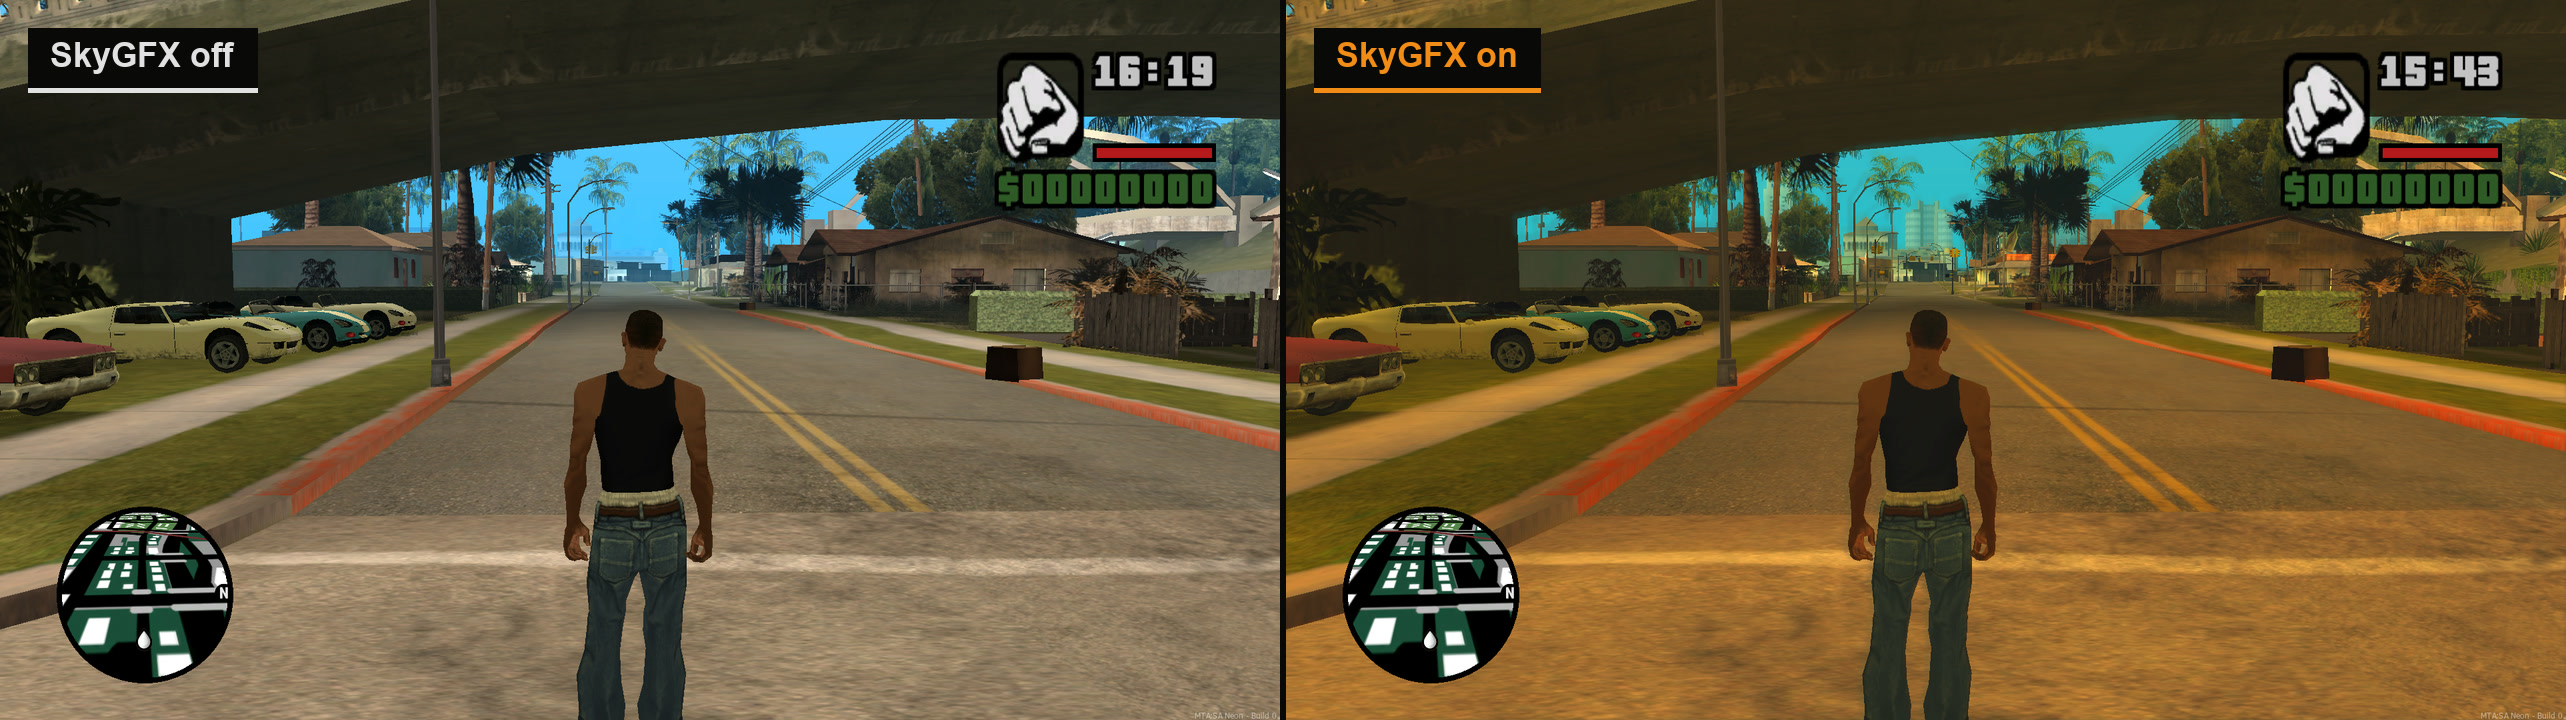
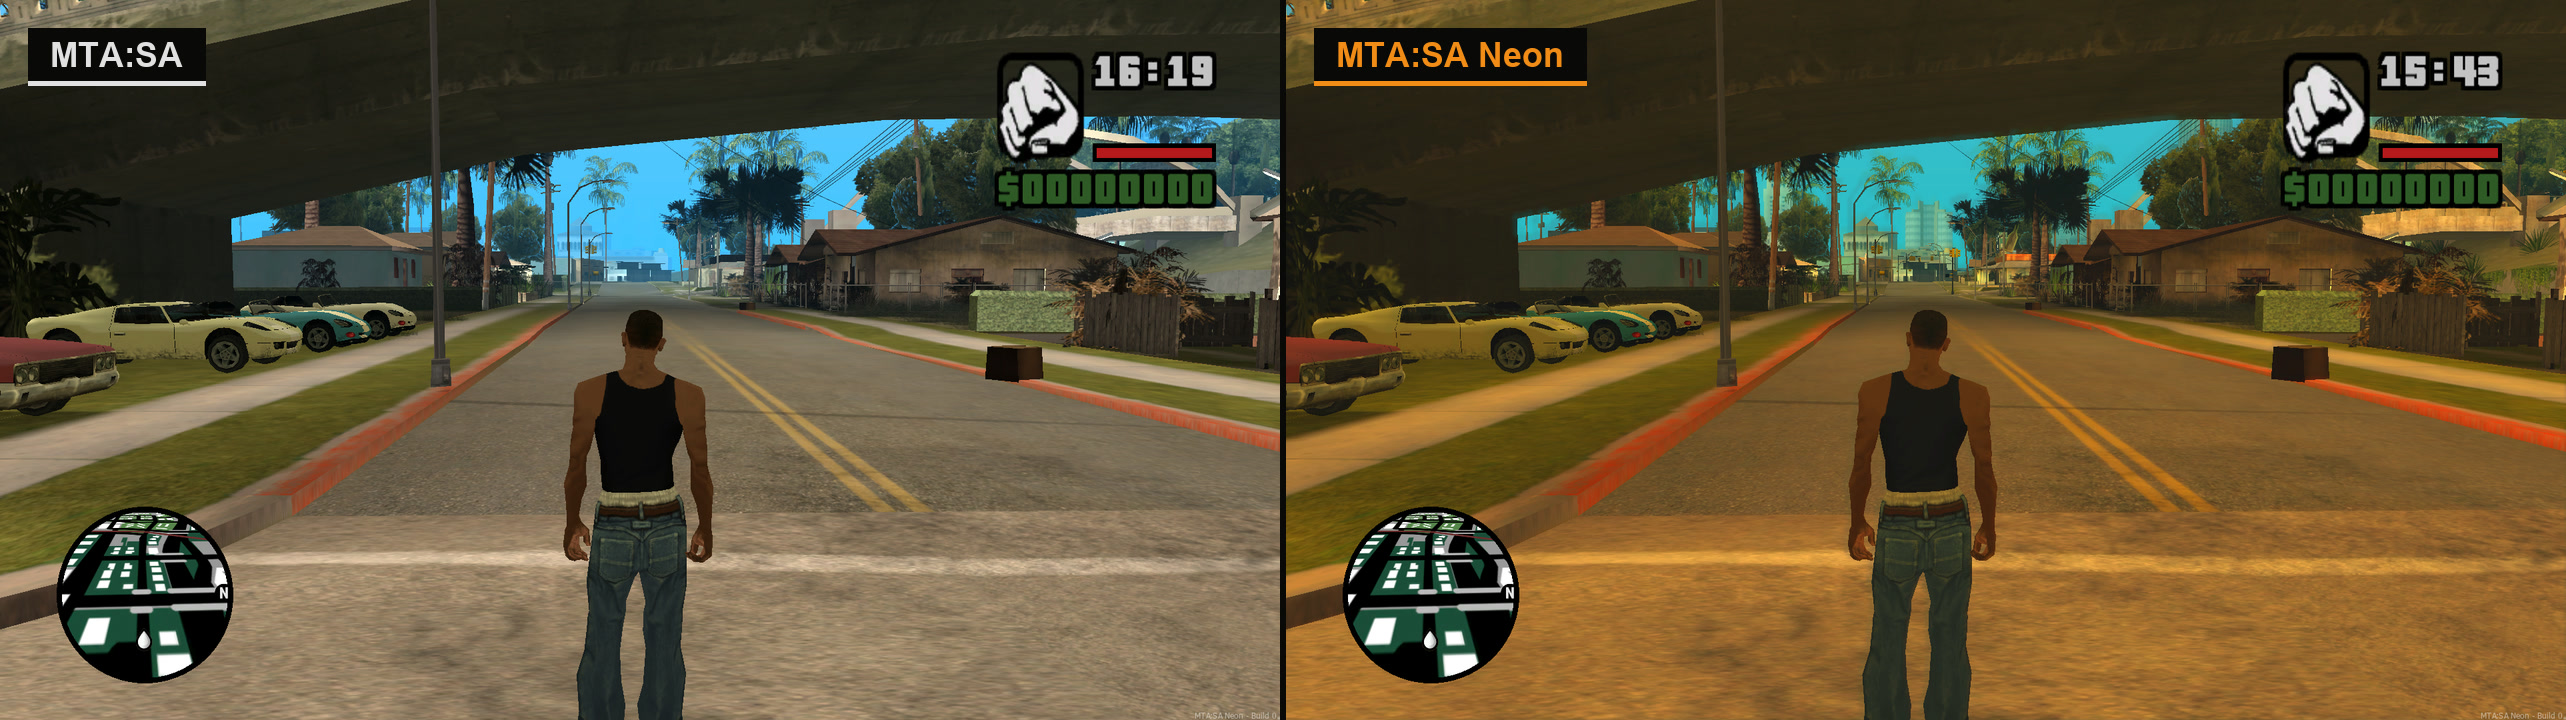
docs(neon): reframe the visual comparisons
Match the README: label the comparisons MTA:SA versus MTA:SA Neon and say
once that Neon renders this itself with no ASI install, rather than
leading with the third-party project names.

Trim the capture-methodology sentences. The SkyGFX time-of-day caveat
stays, since it affects how the image should be read.

Changed region(s): [[0.4988, 0.0306, 0.6235, 0.1528], [0.0, 0.0306, 0.1247, 0.1528]]

diff --git a/web/src/content/docs/neon/rendering-and-limits.md b/web/src/content/docs/neon/rendering-and-limits.md
@@ -25,11 +25,11 @@ Runtime evidence exceeded the old ceilings with 1,033 visible entities and 4,677
 
 ## Coronas and Project2DFX
 
-Both sides below are the same Neon client with the option toggled, not two different builds. The night pair was captured 13 seconds apart from one viewpoint, so the time of day and weather match.
+Neon renders the distant world itself, with no ASI install. Both options are off on a clean install and toggled from the settings tab.
 
-![Night comparison over the city: with extended draw distance and Project2DFX off the world is fogged out beyond a short distance, and with them on the full city appears with hundreds of distant coronas and traffic lights](/neon-media/compare-project2dfx.jpg)
+![Night view over the city: fogged out beyond a short distance in MTA:SA, full skyline with hundreds of distant lights in Neon](/neon-media/compare-project2dfx.jpg)
 
-![Daytime rooftop comparison: distant buildings are flat low-detail blobs under MTA's original far clip, and resolve into detailed geometry under Neon's extended draw distance](/neon-media/compare-draw-distance.jpg)
+![Rooftop view over Los Santos: distant buildings are flat low-detail blobs in MTA:SA and resolve into detailed geometry in Neon](/neon-media/compare-draw-distance.jpg)
 
 Commit [`4b7a1f523`](https://github.com/Dryxio/mtasa-neon/commit/4b7a1f523) relocates GTA's 64-entry corona array to 4,096 process-lifetime entries and patches the verified initialization, rendering, reflection, registration, and coordinate-update references. The first native slots remain available to GTA; up to 4,094 scripted coronas were validated in game.
 

diff --git a/web/src/content/docs/neon/skygfx.md b/web/src/content/docs/neon/skygfx.md
@@ -5,9 +5,9 @@ description: Neon's integrated PS2-style effects, Definitive Edition radar profi
 
 Neon packages a controlled SkyGFX bridge and a configurable radar renderer directly in the Windows client. Players do not need a separate ASI install, and servers can request temporary visual profiles without overwriting the player's saved settings.
 
-![Street-level comparison in Ganton: neutral stock colors with SkyGFX off, and warmer, more saturated PS2-style grading with SkyGFX on](/neon-media/compare-skygfx.jpg)
+![Street-level view in Ganton: neutral colors in MTA:SA, warmer and more saturated PS2-style grading in Neon](/neon-media/compare-skygfx.jpg)
 
-Both halves are the same Neon client with the SkyGFX integration toggled. The in-game clocks differ slightly between the two captures, so part of the warmth also comes from GTA's own timecycle rather than from the color path alone.
+The two captures differ slightly in time of day, so part of the warmth comes from GTA's own timecycle rather than from the color path alone.
 
 ## First-run visual profile
 
